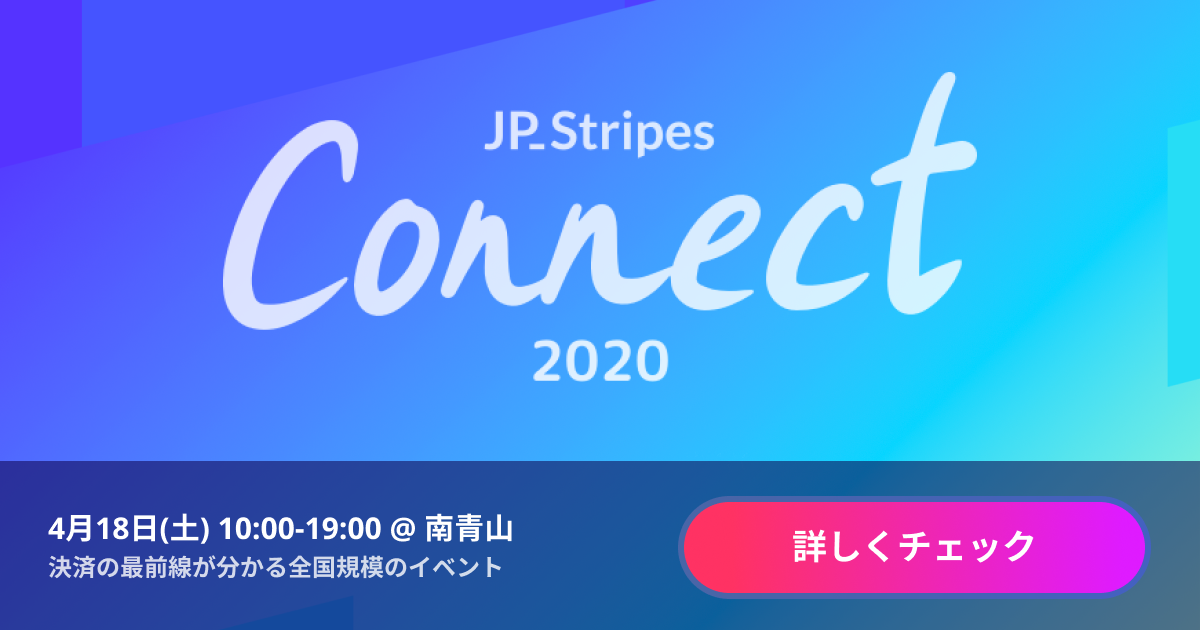
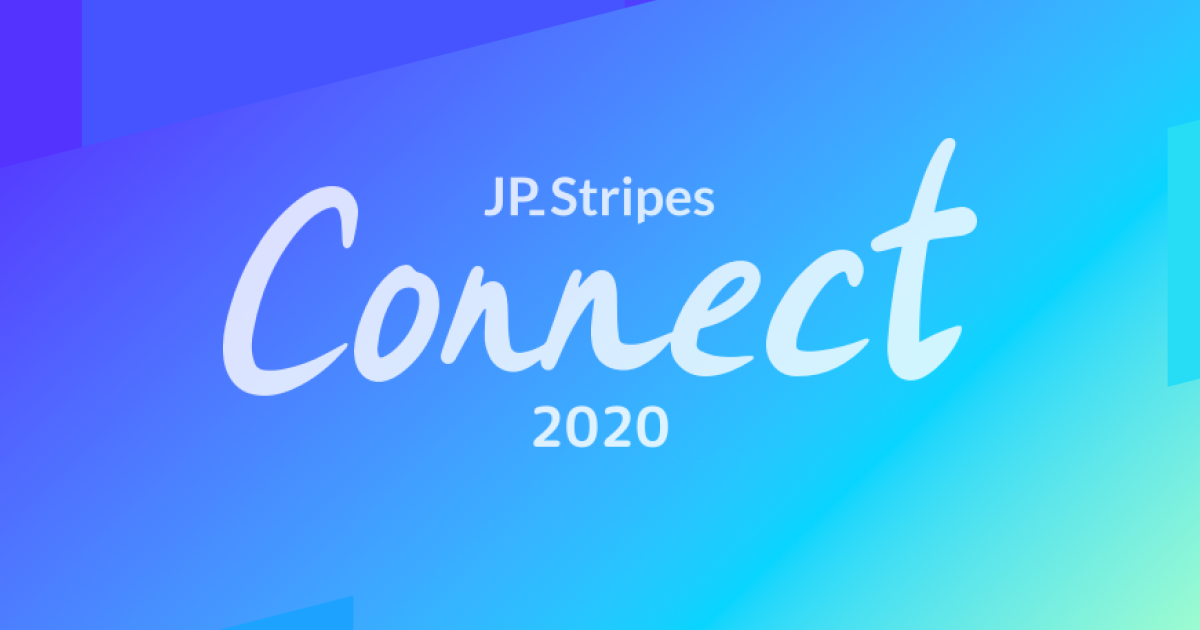
Refactor: Swapped default Open Graph image

diff --git a/theme/CHANGES.md b/theme/CHANGES.md
@@ -2,6 +2,10 @@
 
 ## Next
 
+## 1.4.1
+
+- Refactor: Swapped default Open Graph image
+
 ## 1.4.0
 
 - Feature: Added notification
